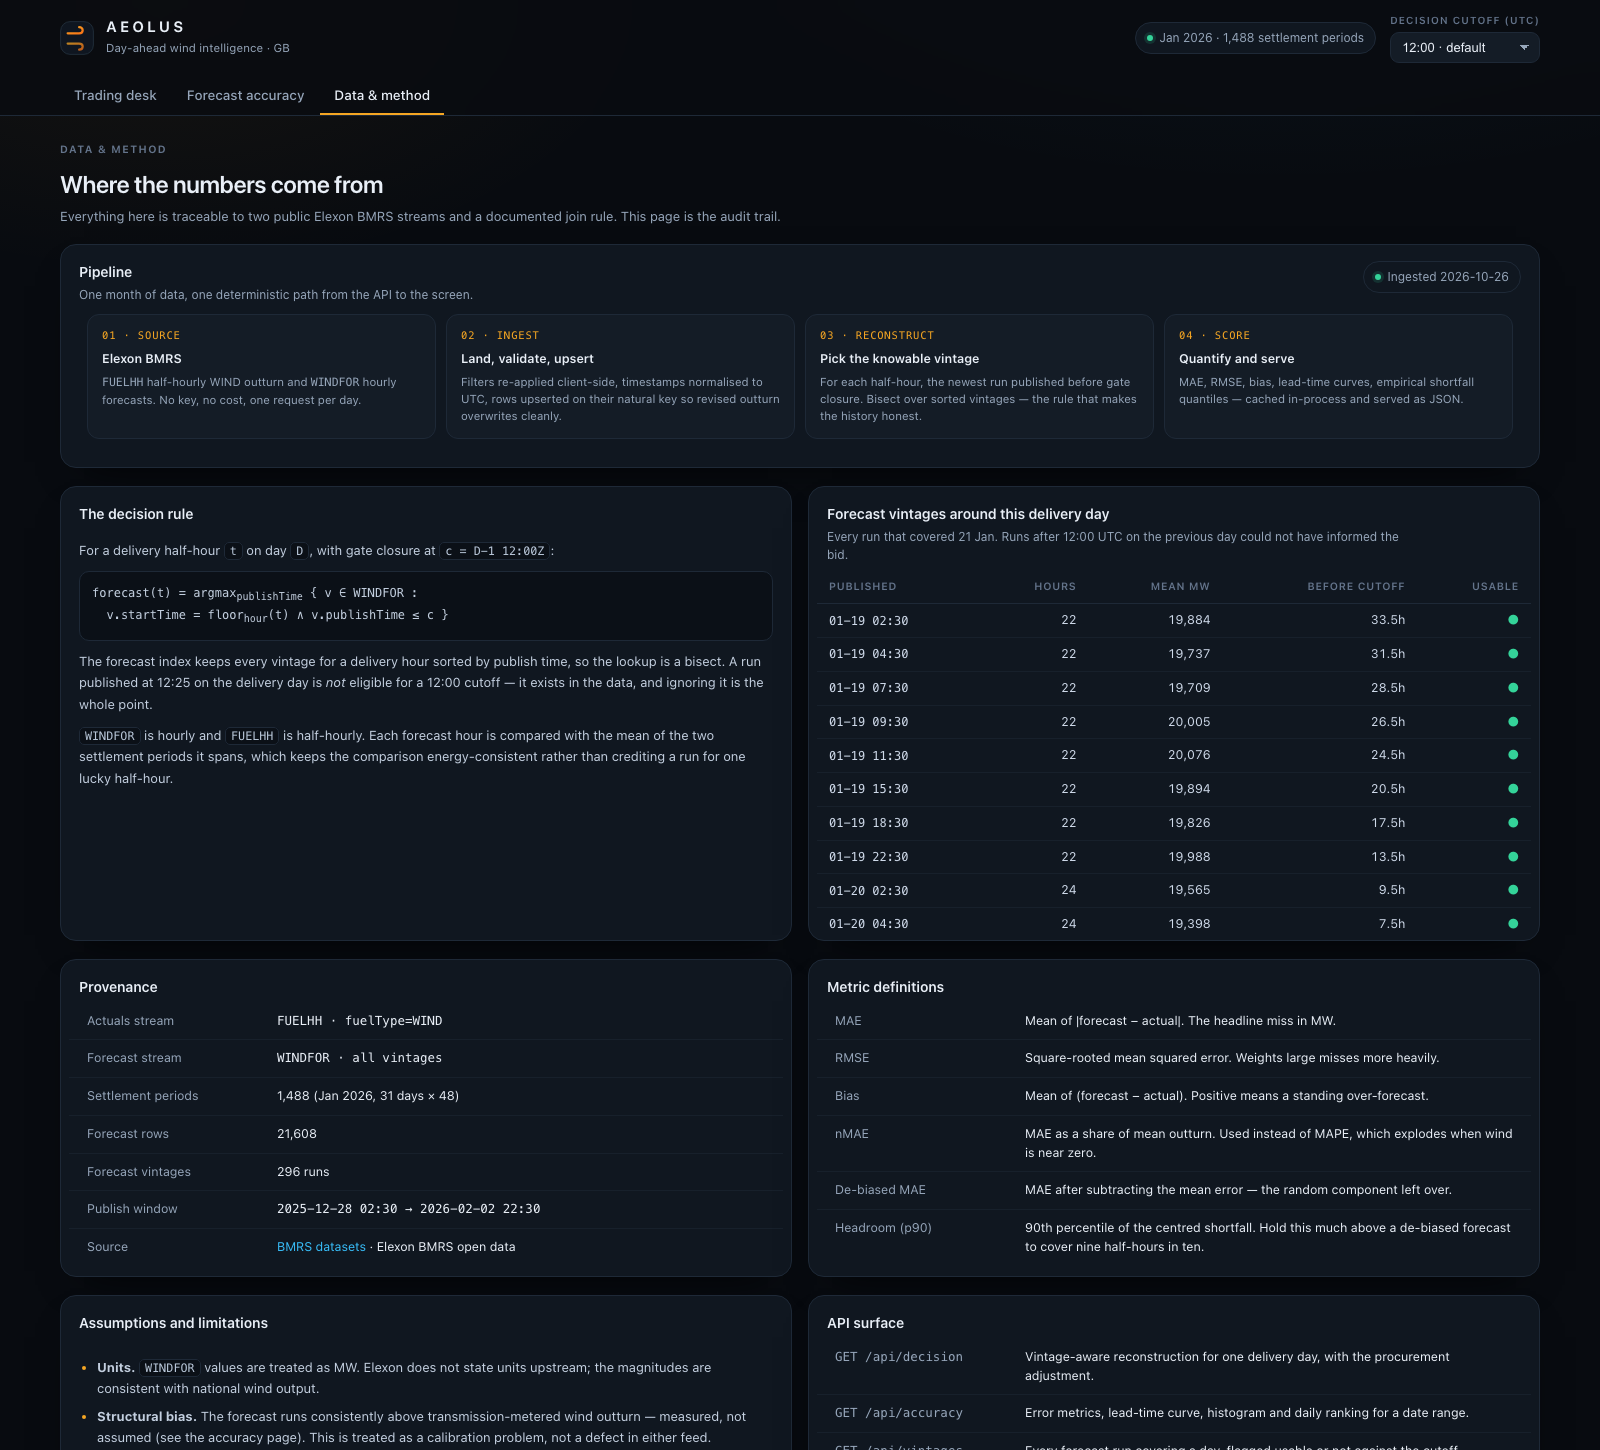
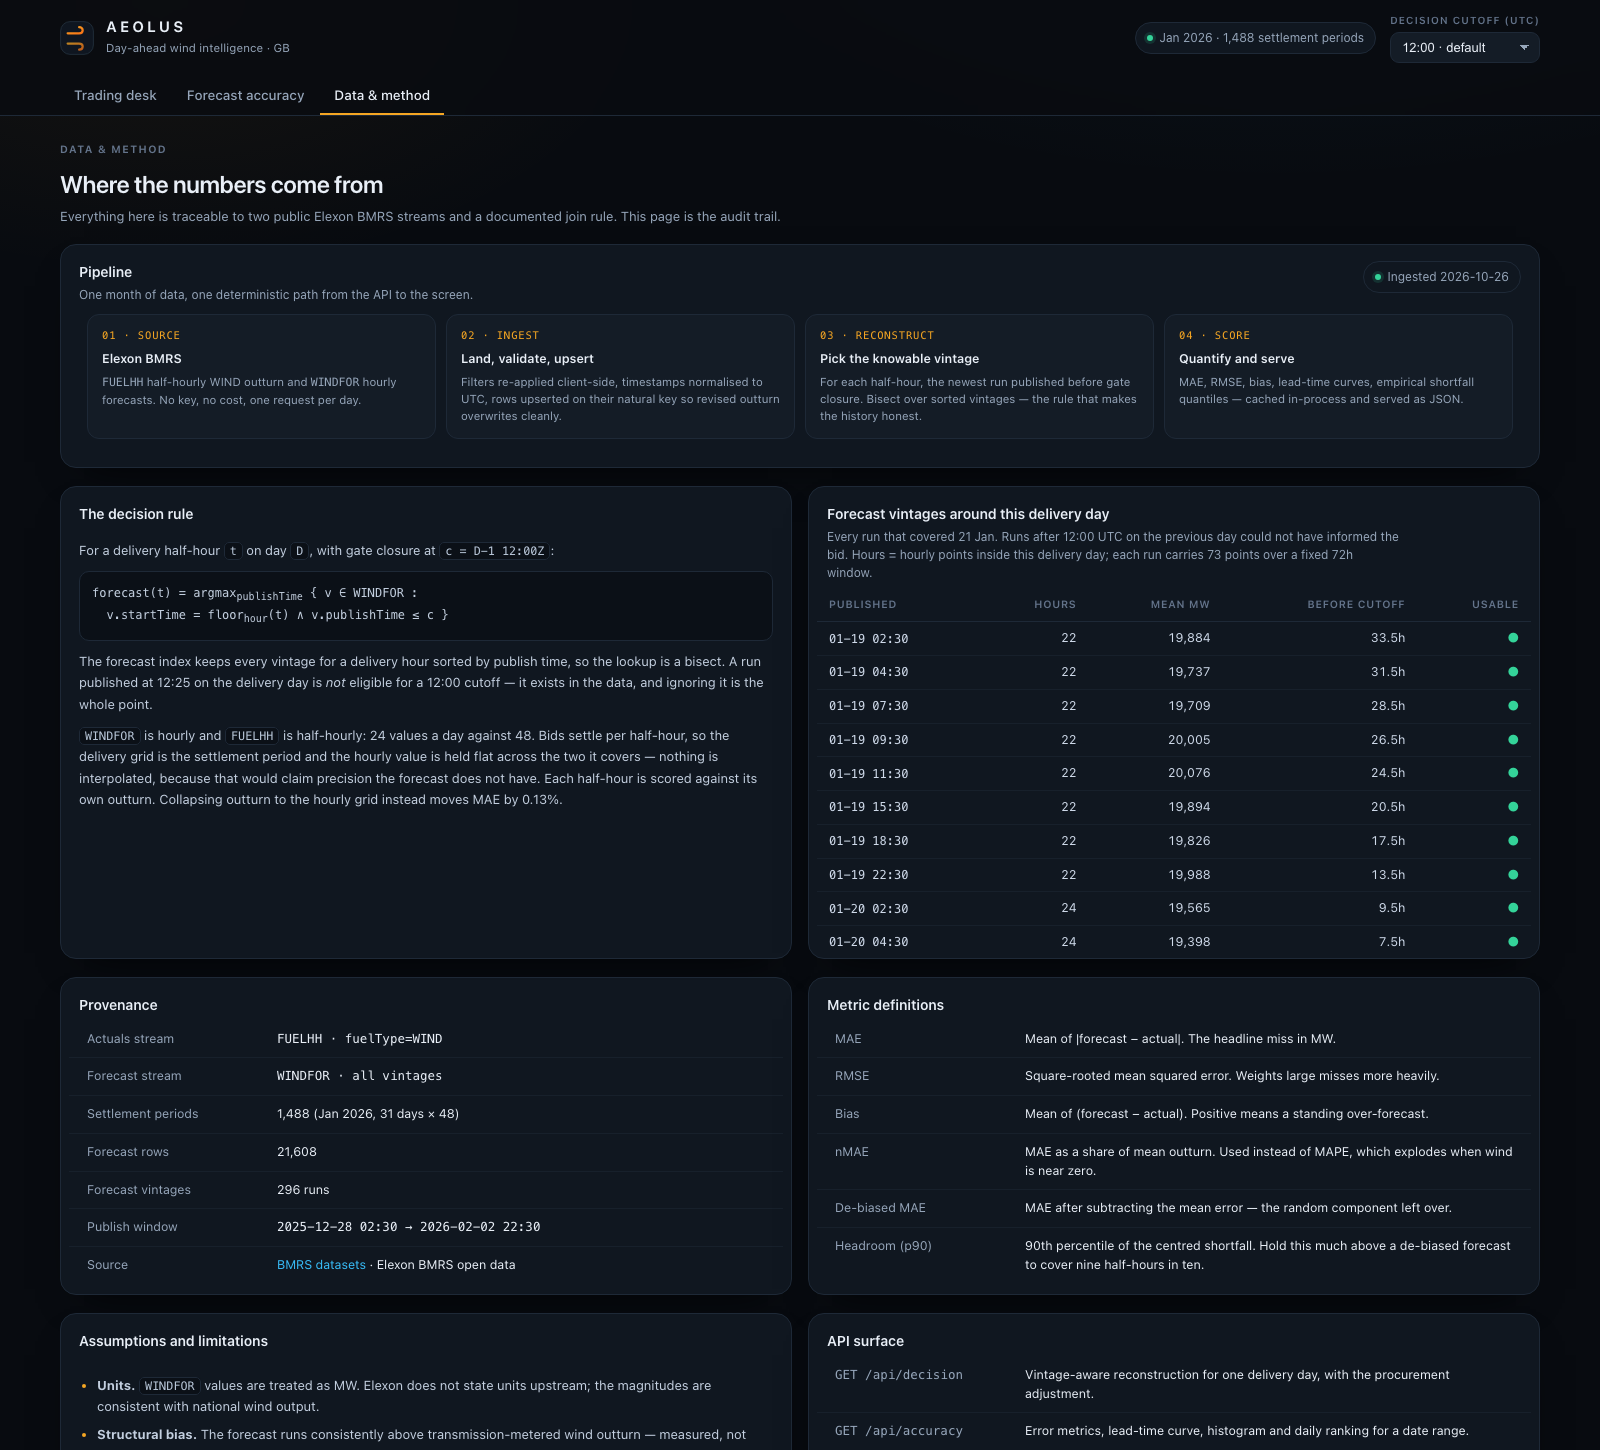
Correct the resolution-bridging and vintage-window documentation
The docs described a mean-of-two-half-hours comparison that the code never
did, and claimed a ~3-day forecast horizon that the data does not support.

Verified against all 296 stored vintages:
- every run carries exactly 73 hourly points over a fixed 72h window,
  (run day - 1) 21:00 -> (run day + 2) 21:00; the past/future split moves
  with publish time (66.5h ahead at 02:30, 46.5h at 22:30), so a later run
  is fresher, not longer;
- the hourly value is held flat across both settlement periods and each
  spell is scored against its own outturn;
- collapsing outturn to the hourly grid instead moves MAE by 0.13%
  (2,018 vs 2,021 MW), so the convention changes no conclusion.

Also surfaces the corrected assumption in /api/meta and the method page.

diff --git a/frontend/src/pages/MethodPage.tsx b/frontend/src/pages/MethodPage.tsx
@@ -91,14 +91,16 @@ export function MethodPage({
               exists in the data, and ignoring it is the whole point.
             </p>
             <p>
-              <code>WINDFOR</code> is hourly and <code>FUELHH</code> is half-hourly. Each forecast hour is compared
-              with the mean of the two settlement periods it spans, which keeps the comparison energy-consistent
-              rather than crediting a run for one lucky half-hour.
+              <code>WINDFOR</code> is hourly and <code>FUELHH</code> is half-hourly: 24 values a day against 48.
+              Bids settle per half-hour, so the delivery grid is the settlement period and the hourly value is
+              held flat across the two it covers — nothing is interpolated, because that would claim precision
+              the forecast does not have. Each half-hour is scored against its own outturn. Collapsing outturn to
+              the hourly grid instead moves MAE by 0.13%.
             </p>
           </div>
         </Panel>
 
-        <Panel title="Forecast vintages around this delivery day" note={`Every run that covered ${dayLabel(date)}. Runs after ${clock(vintages?.cutoff)} UTC on the previous day could not have informed the bid.`}>
+        <Panel title="Forecast vintages around this delivery day" note={`Every run that covered ${dayLabel(date)}. Runs after ${clock(vintages?.cutoff)} UTC on the previous day could not have informed the bid. Hours = hourly points inside this delivery day; each run carries 73 points over a fixed 72h window.`}>
           {vintages ? (
             <div className="scroll" style={{ maxHeight: 360 }}>
               <table className="data">

diff --git a/backend/app/main.py b/backend/app/main.py
@@ -202,7 +202,7 @@ def meta() -> dict:
         },
         "assumptions": [
             "WINDFOR values are treated as MW; upstream documentation does not state units.",
-            "Hourly WINDFOR values are compared with the mean of the two half-hours they span.",
+            "Hourly WINDFOR values are held flat across the two half-hours they cover; each half-hour is scored against its own outturn.",
             "Delivery times are UTC; January is GMT so no clock change applies.",
         ],
     }

diff --git a/README.md b/README.md
@@ -130,8 +130,12 @@ origin; the frontend falls back to same-origin `/api` paths when it is unset.
 
 ### 1. Reconstructing what the desk knew
 
-`WINDFOR` is a *vintaged* dataset: the same delivery hour appears once per forecast run (8 runs/day,
-published at 02:30, 04:30, 07:30, 09:30, 11:30, 15:30, 18:30, 22:30 UTC, each covering ~3 days ahead).
+`WINDFOR` is a *vintaged* dataset: the same delivery hour appears once per forecast run — 8 runs a day,
+at 02:30, 04:30, 07:30, 09:30, 11:30, 15:30, 18:30 and 22:30 UTC. Every run carries exactly **73 hourly
+points over a fixed 72-hour delivery window**, from 21:00 the day before the run to 21:00 two days after
+it (verified across all 296 vintage runs). The split between past and future therefore shifts with
+publication time: the 02:30 run reaches 66.5h ahead, the 22:30 run only 46.5h. A later run is *fresher*,
+not longer.
 
 For delivery half-hour `t` on day `D` with gate closure `c = D−1 12:00Z`:
 
@@ -145,8 +149,26 @@ O(log n) and — more importantly — **provably free of look-ahead**. A run pub
 delivery day exists in the data and is never used for a 12:00 cutoff. Changing the cutoff in the UI
 changes which vintages qualify, and the metrics move accordingly.
 
-`WINDFOR` is hourly and `FUELHH` is half-hourly, so each forecast hour is compared with the **mean of
-the two settlement periods** it spans.
+### 2. Bridging the two resolutions
+
+The streams do not share a clock. `FUELHH` returns **48 half-hourly** values per day; `WINDFOR` returns
+**24 hourly** values per delivery day. That fixed 72-hour window is also why a 12:00 cutoff on D−1 — the
+11:30 run — always covers all 48 periods of D: its window is (D−2) 21:00 → (D+1) 21:00. Full coverage is
+structural, not luck.
+
+The delivery grid is the settlement period, because that is the unit the desk bids and settles. So:
+
+- Each half-hour resolves to the forecast for the hour containing it — `floor_to_hour(t)` — and that
+  hourly value is **held flat across the two periods it covers**. Nothing is interpolated: inventing
+  intra-hour shape would claim precision the forecast does not have.
+- Each settlement period is then scored against **its own** outturn, so the metric measures the imbalance
+  the desk actually carries in each period rather than an hour-averaged abstraction.
+- Energy aggregation stays consistent: `MW × 0.5 h` per period, so a day of flat pairs sums to the same
+  MWh as summing the hourly values. Sample sizes are counted in periods (1,488), not hours (744).
+
+The alternative convention — collapsing outturn to the hourly grid by averaging each pair — gives
+**MAE 2,018 MW vs 2,021 MW (+0.13%)**, RMSE 2,477 vs 2,481, identical bias. The choice changes no
+conclusion; it is documented here so a reviewer can see it was considered rather than stumbled into.
 
 ### 2. Metrics
 
